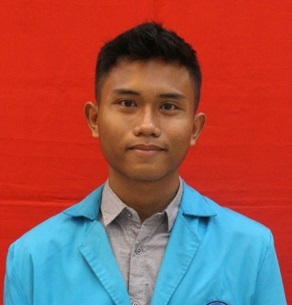
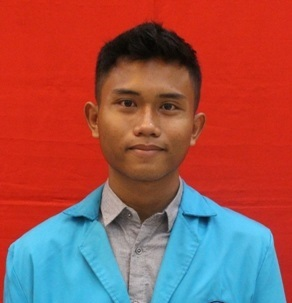
j

diff --git a/Remaster/user/tentangkami.php b/Remaster/user/tentangkami.php
@@ -333,12 +333,12 @@ session_start();
                             <div class="col-sm-6 col-md-3">
                                 <div class="person-box">
                                     <div class="person-icon">
-                                        <div class="person-img"><img src="images/team7.jpg" alt="" /></div>
+                                        <div class="person-img"><img src="images/sayyid.jpeg" alt="" /></div>
                                     </div>
                                     <div class="person-name">Sayyid</div>
                                     <div class="person-title">Web Developer</div>
                                     <div class="person-social">
-                                        <a href="#"><i class="fab fa-twitter"></i></a>
+                                        <a href="https://www.twitter.com/moh_saidul"><i class="fab fa-twitter"></i></a>
                                         <a href="https://www.instagram.com/sayyid.musthofa/"><i class="fab fa-instagram"></i></a>
                                     </div>
                                 </div>
